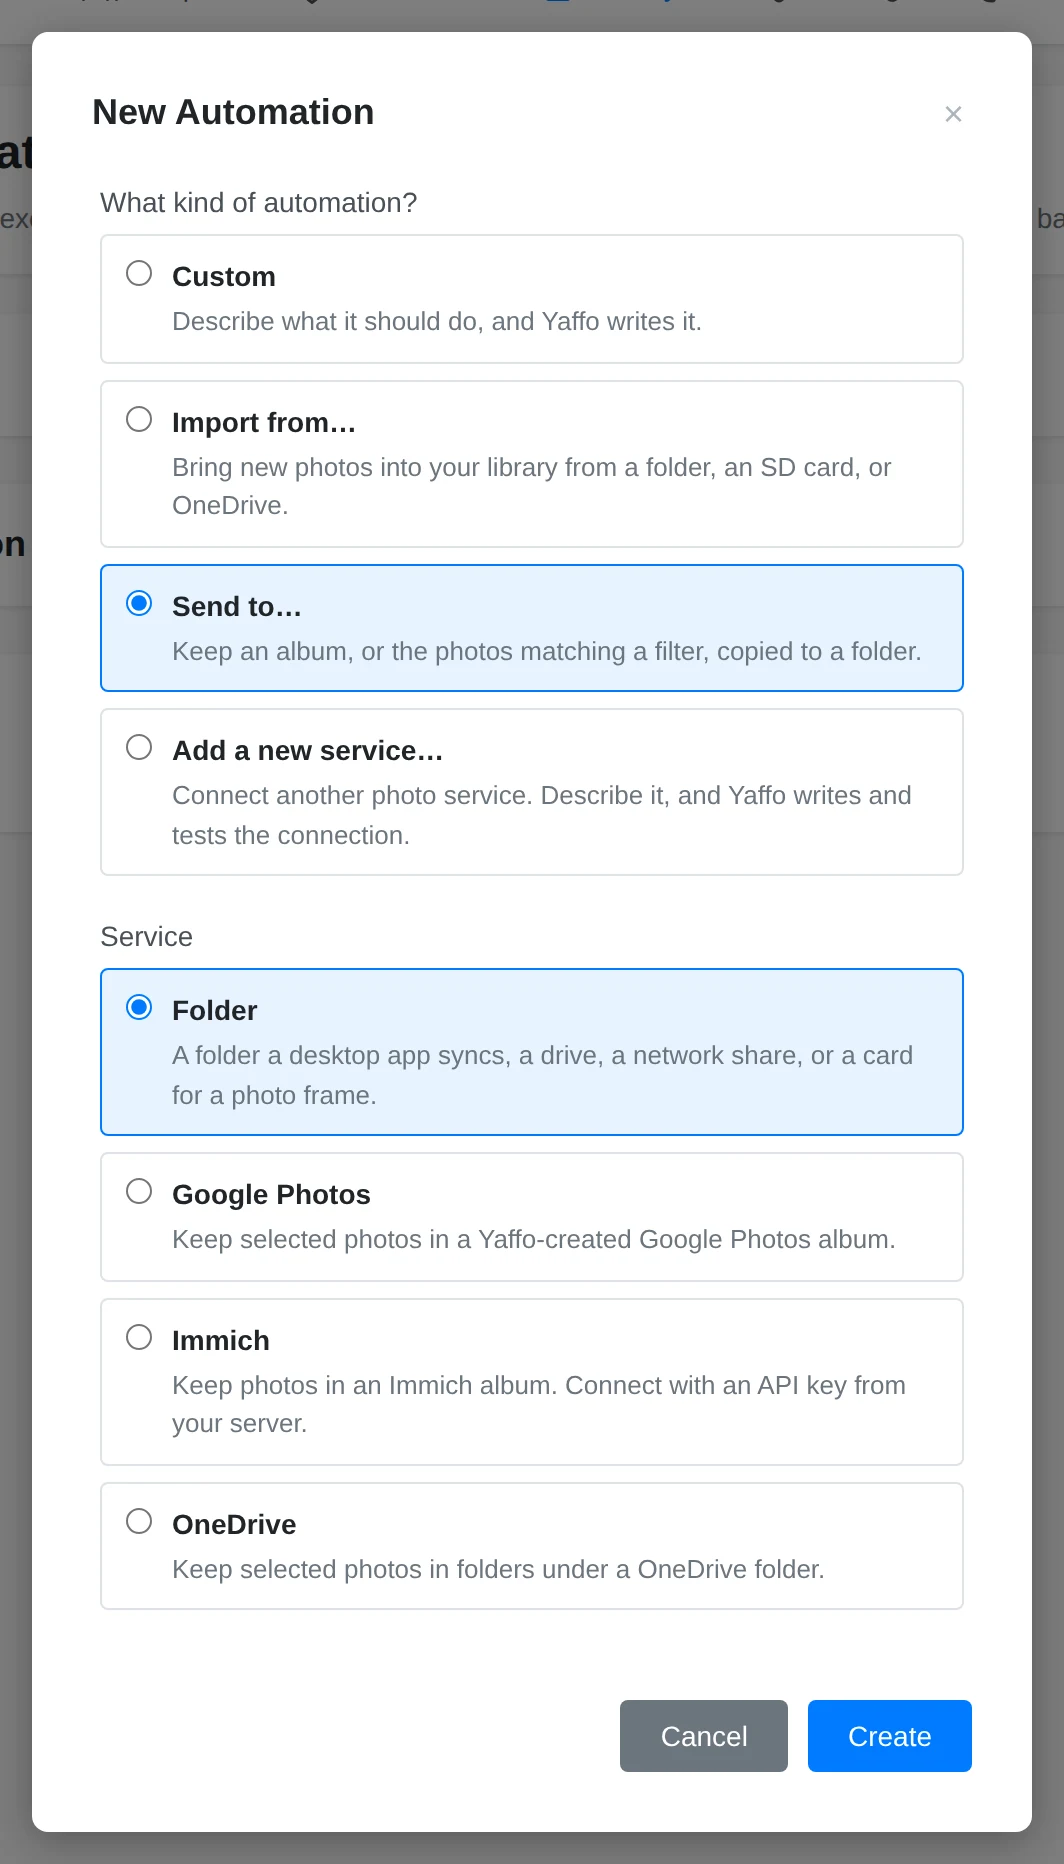
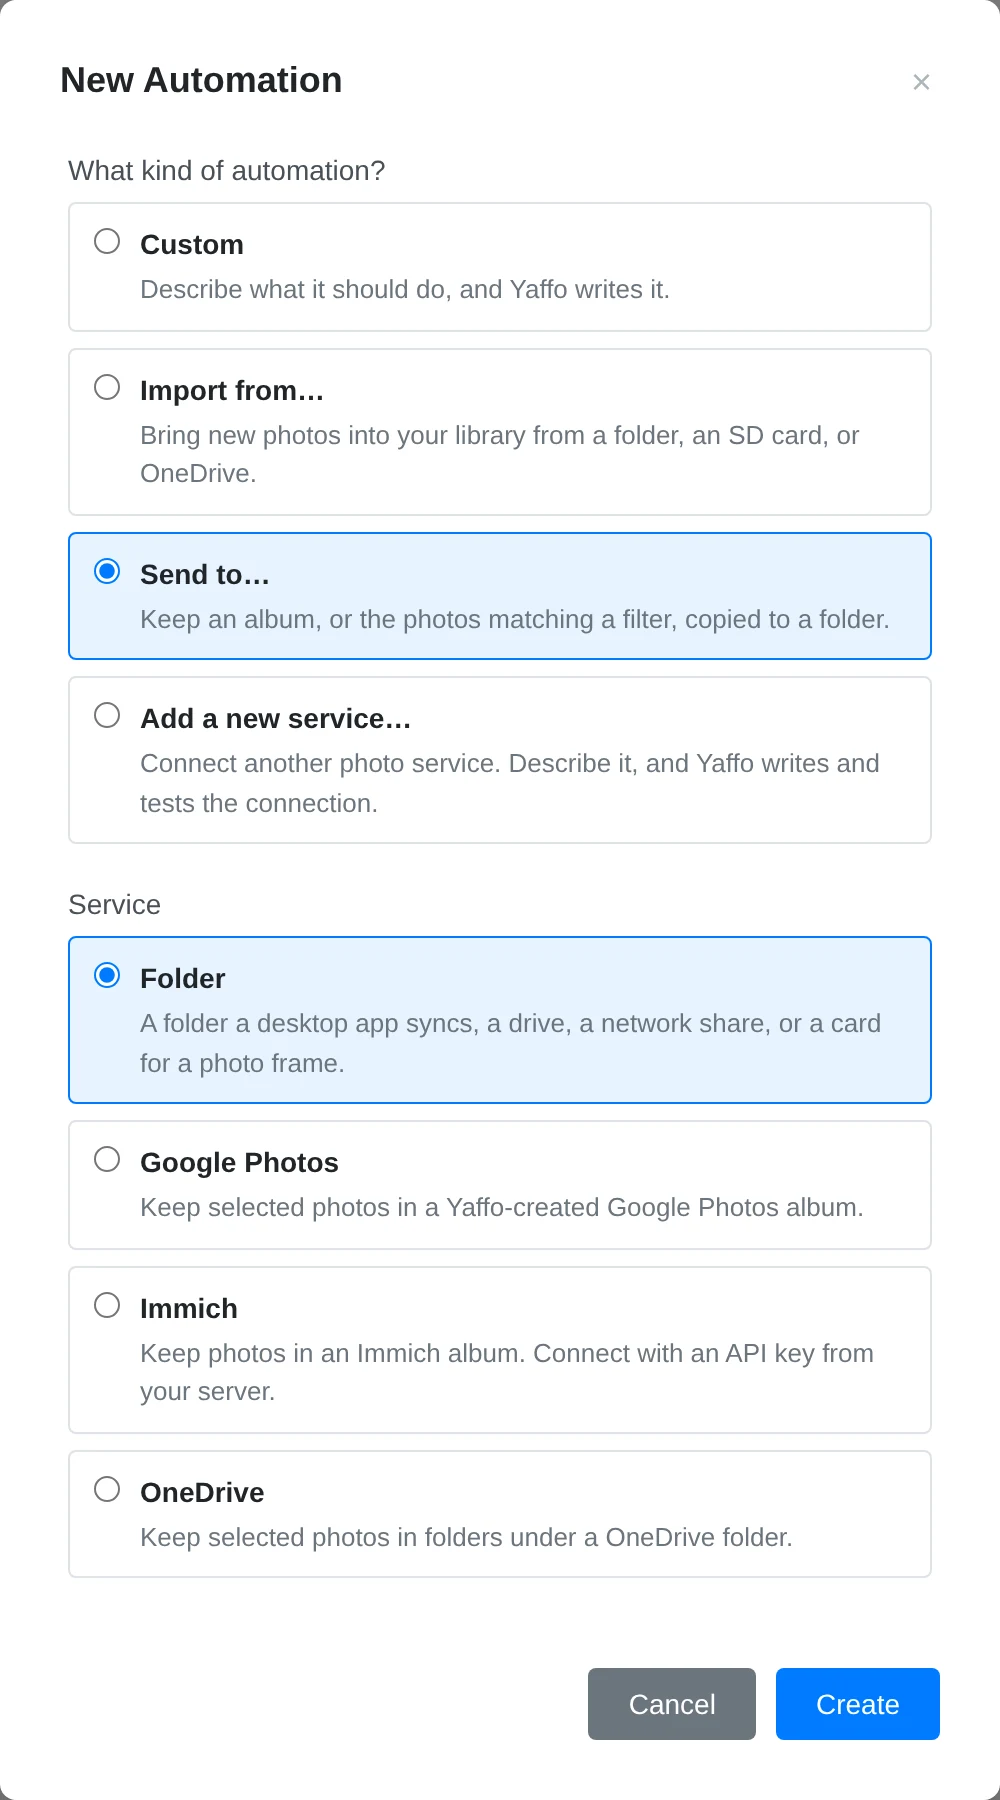
Capturing snapshots.

Changed region(s): [[0.0, 0.0, 1.0, 1.0], [0.062, 0.4978, 0.93, 0.8711], [0.899, 0.4978, 0.93, 0.56]]

diff --git a/yaffo_ui_tests/lib/user_doc_automation/framing.ts b/yaffo_ui_tests/lib/user_doc_automation/framing.ts
@@ -12,20 +12,20 @@ export interface Box {
 export const PAD = 16;
 
 /** The element's box, padded and clamped to the page so the clip stays on canvas. */
-export const paddedBox = async (page: Page, selector: string): Promise<Box> => {
+export const paddedBox = async (page: Page, selector: string, padding = PAD): Promise<Box> => {
     const box = await page.locator(selector).first().boundingBox();
     if (!box) throw new Error(`No bounding box for ${selector}`);
     const pageSize = await page.evaluate(() => ({
         width: document.documentElement.scrollWidth,
         height: document.documentElement.scrollHeight,
     }));
-    const x = Math.max(0, box.x - PAD);
-    const y = Math.max(0, box.y - PAD);
+    const x = Math.max(0, box.x - padding);
+    const y = Math.max(0, box.y - padding);
     return {
         x,
         y,
-        width: Math.min(box.width + PAD * 2, pageSize.width - x),
-        height: Math.min(box.height + PAD * 2, pageSize.height - y),
+        width: Math.min(box.width + padding * 2, pageSize.width - x),
+        height: Math.min(box.height + padding * 2, pageSize.height - y),
     };
 };
 
@@ -70,7 +70,7 @@ export const rowCut = async (page: Page, rule: RowRule): Promise<number> => {
 /** The crop for a shot, or undefined for a plain viewport capture. */
 export const resolveClip = async (page: Page, shot: Shot): Promise<Box | undefined> => {
     if (!shot.clip) return undefined;
-    const clip = await paddedBox(page, shot.clip);
+    const clip = await paddedBox(page, shot.clip, shot.clipPadding);
     if (shot.rows) {
         clip.height = Math.max(0, (await rowCut(page, shot.rows)) - clip.y);
     }

diff --git a/yaffo_ui_tests/user_doc_automation/create-customize/exporting/exporting.ts b/yaffo_ui_tests/user_doc_automation/create-customize/exporting/exporting.ts
@@ -111,6 +111,7 @@ export default defineWalkthrough({
             viewport: {width: 1400, height: 1000},
             goto: "/utilities/automations",
             clip: "#newAutomationModal .modal-content",
+            clipPadding: 0,
             setup: async (page) => withCleanup(page, async () => {
                 await page.locator("#new-automation-button").click();
                 const modal = page.locator("#newAutomationModal.active");

diff --git a/yaffo_ui_tests/user_doc_automation/create-customize/importing/importing.ts b/yaffo_ui_tests/user_doc_automation/create-customize/importing/importing.ts
@@ -116,6 +116,7 @@ export default defineWalkthrough({
             viewport: {width: 1400, height: 1000},
             goto: "/utilities/automations",
             clip: "#newAutomationModal .modal-content",
+            clipPadding: 0,
             setup: async (page) => {
                 await chooseFolderImport(page);
                 await page.locator("#newAutomationModal.active #new-automation-name").fill("Camera card");

diff --git a/yaffo_ui_tests/lib/user_doc_automation/types.ts b/yaffo_ui_tests/lib/user_doc_automation/types.ts
@@ -60,6 +60,8 @@ export interface Shot {
     goto: string | ((context: GotoContext) => string | Promise<string>);
     /** Element whose box defines the crop. Omit for a plain viewport shot. */
     clip?: string;
+    /** Breathing room around the crop in CSS pixels. Defaults to 16; use 0 for a modal. */
+    clipPadding?: number;
     /** Trim the crop to N complete rows of a grid. */
     rows?: RowRule;
     /**

diff --git a/yaffo_ui_tests/docs/documentation_automation.md b/yaffo_ui_tests/docs/documentation_automation.md
@@ -567,6 +567,11 @@ does — and writes one. When a walkthrough breaks, it heals it. Walkthroughs st
 human-editable: to show three gallery rows instead of two, edit the walkthrough. No spec
 field is needed for it.
 
+Clipped shots include 16 CSS pixels of padding by default. Set `clipPadding: 0`
+for a modal-only shot so the surrounding page does not enter the crop or cause
+repeatability failures when background content moves. The import and export
+creation-dialog shots use this setting.
+
 Three consequences:
 
 - **Adding a screenshot is never a markdown-only edit.** The reference has to exist
